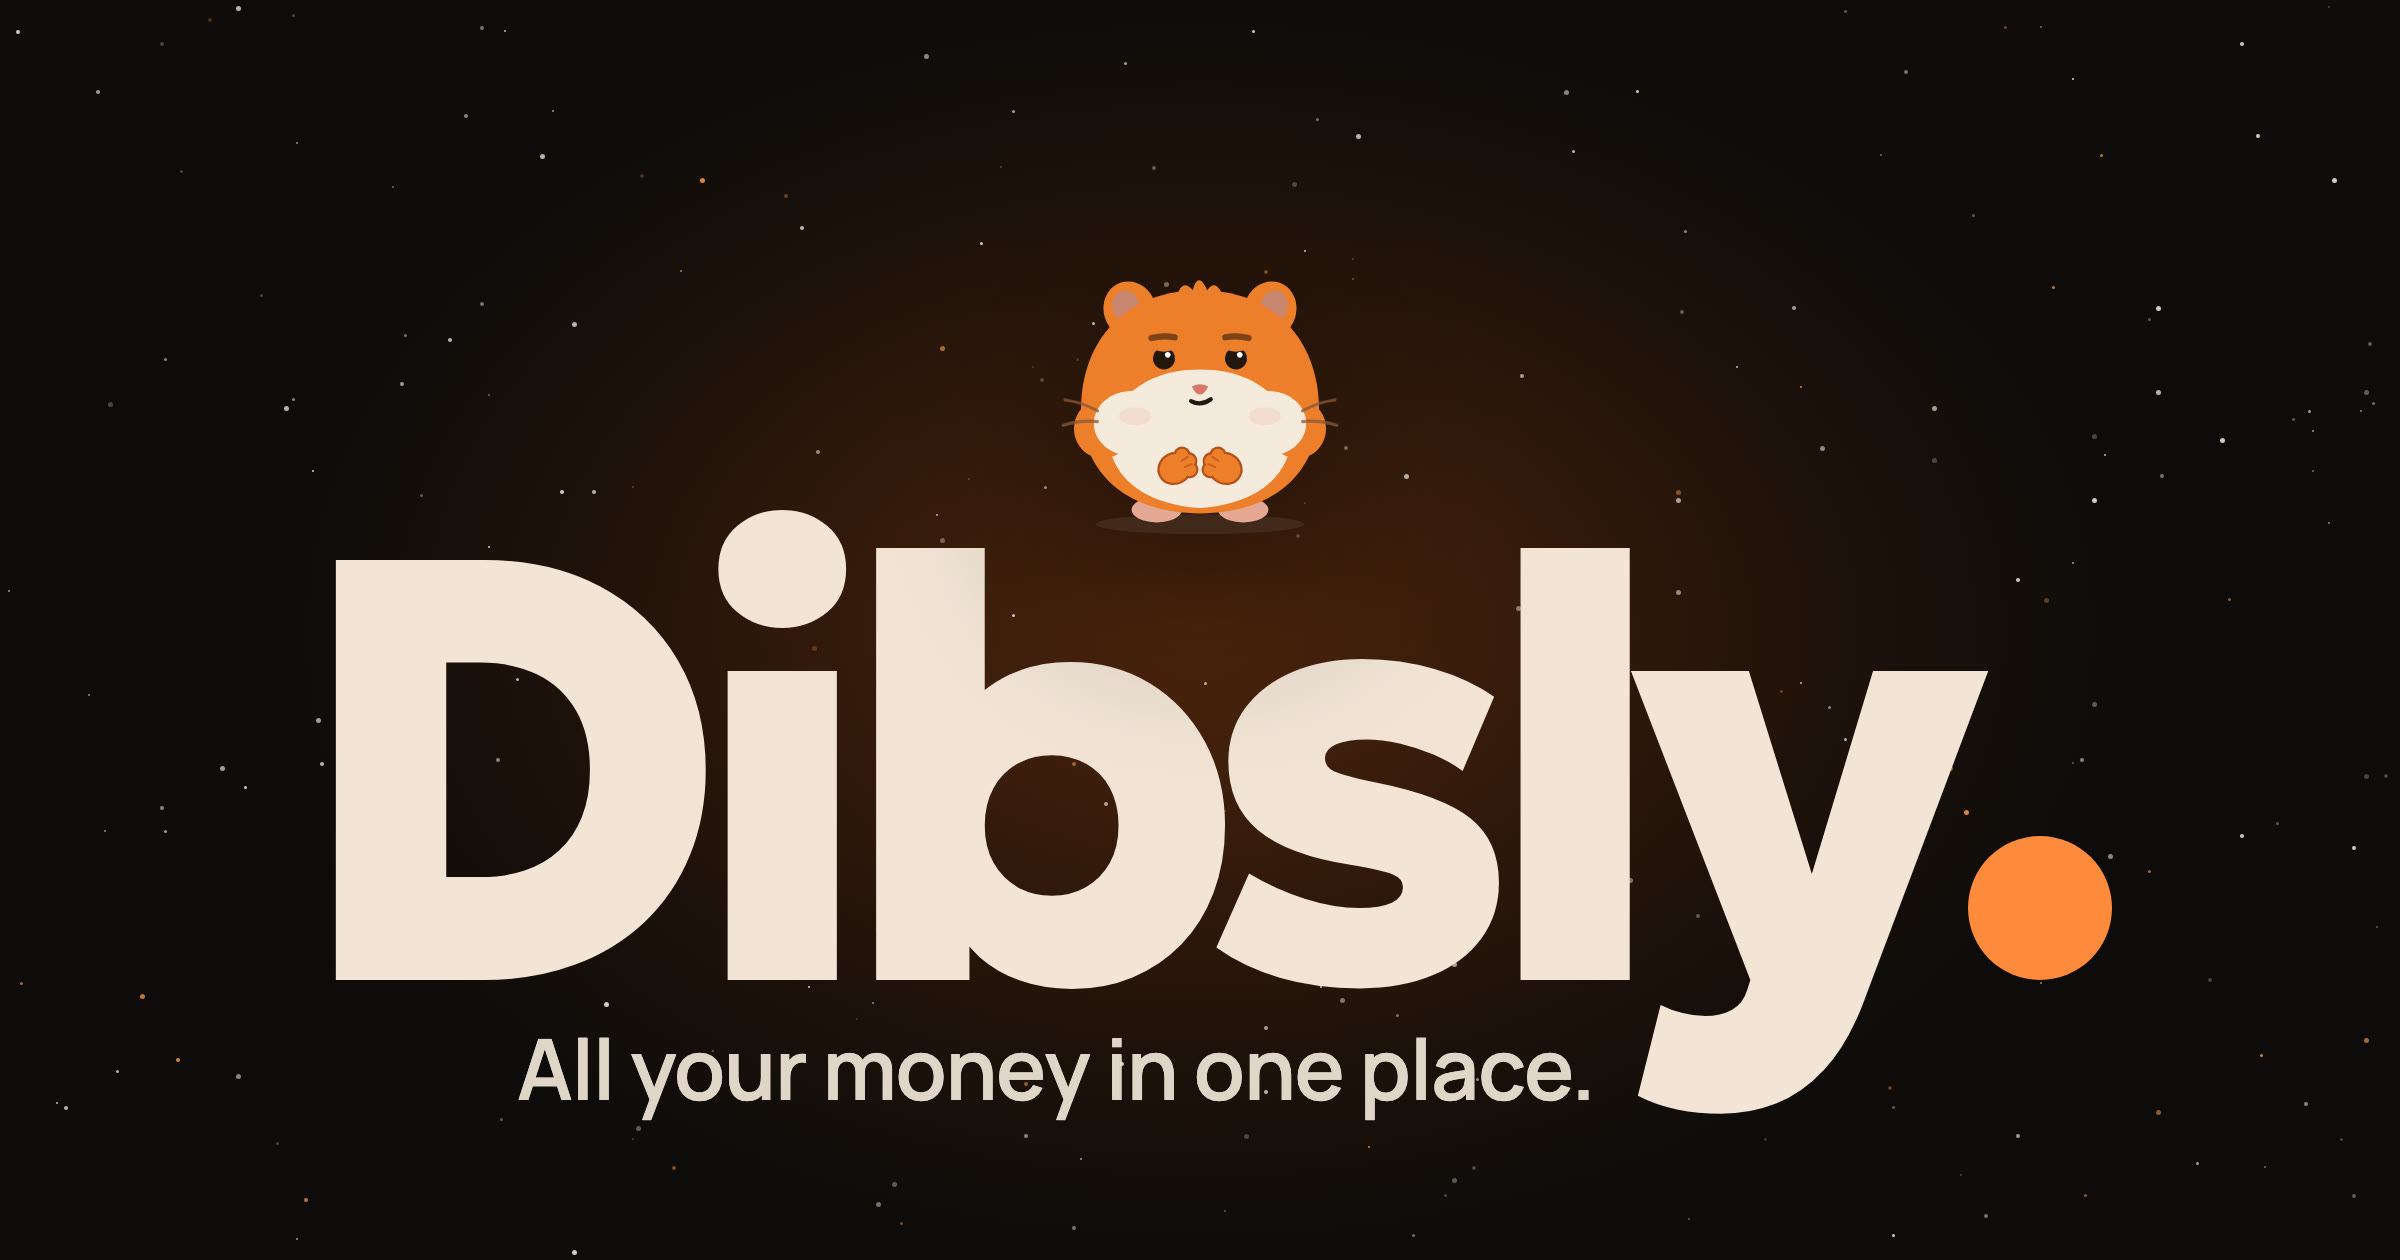
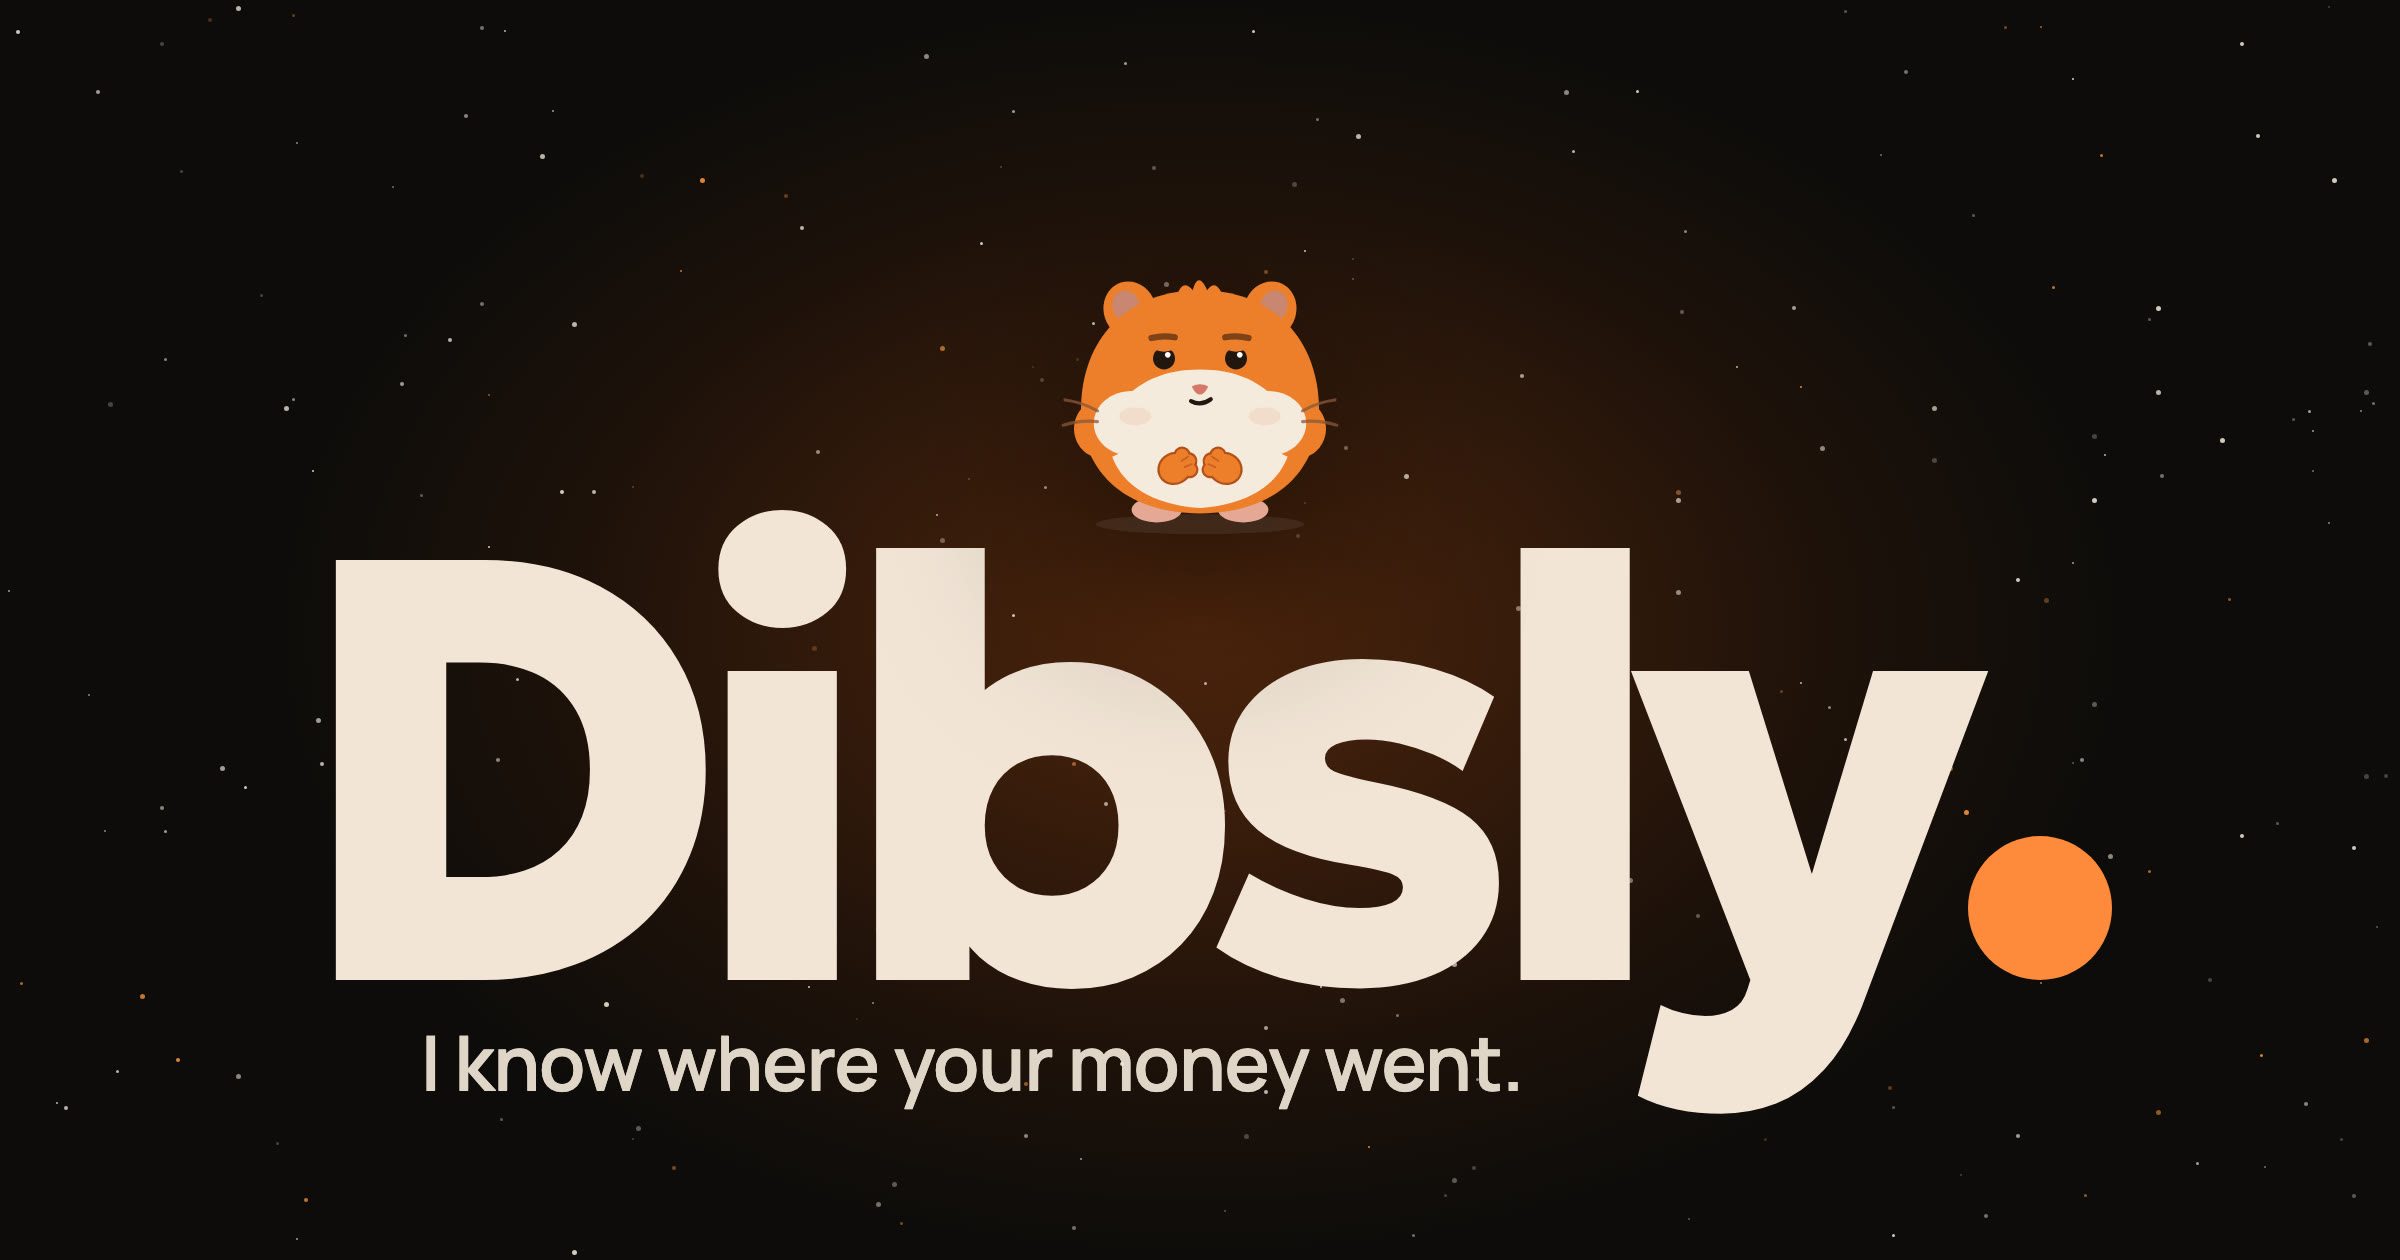
Slogan: «Знаю, куди поділися твої гроші» / «I know where your money went» in the title, the previews and the closing call; the preview redrawn

Changed region(s): [[0.1562, 0.8048, 0.6562, 0.8976]]

diff --git a/server/worker.js b/server/worker.js
@@ -69,12 +69,12 @@ async function video(request, env) {
 const APP_STORE = "https://apps.apple.com/app/apple-store/id6765870838";
 const LINK_ROBOTS = /facebookexternalhit|facebot|twitterbot|telegrambot|whatsapp|slackbot|discordbot|linkedinbot|skypeuripreview|viber|pinterest|redditbot|applebot|embedly|iframely|vkshare|googlebot|bingbot/i;
 const APP_TEXT = {
-  uk: { title: "Dibsly: усі твої гроші в одному місці", site: "https://dibslyapp.com/",
+  uk: { title: "Dibsly: знаю, куди поділися твої гроші", site: "https://dibslyapp.com/",
     description: "Усі банки, Apple Pay, готівка, цілі, інвестиції, ФОП, борги й кредити на iPhone, iPad і Mac.",
-    alt: "Dibsly. Усі гроші в одному місці.", open: "Відкрити в App Store" },
-  en: { title: "Dibsly: all your money in one place", site: "https://dibslyapp.com/en.html",
+    alt: "Dibsly. Знаю, куди поділися твої гроші.", open: "Відкрити в App Store" },
+  en: { title: "Dibsly: I know where your money went", site: "https://dibslyapp.com/en.html",
     description: "Every bank, Apple Pay, cash, goals, investments, debts and loans on iPhone, iPad and Mac.",
-    alt: "Dibsly. All your money in one place.", open: "Open in the App Store" },
+    alt: "Dibsly. I know where your money went.", open: "Open in the App Store" },
 };
 
 function appLink(url, request) {
